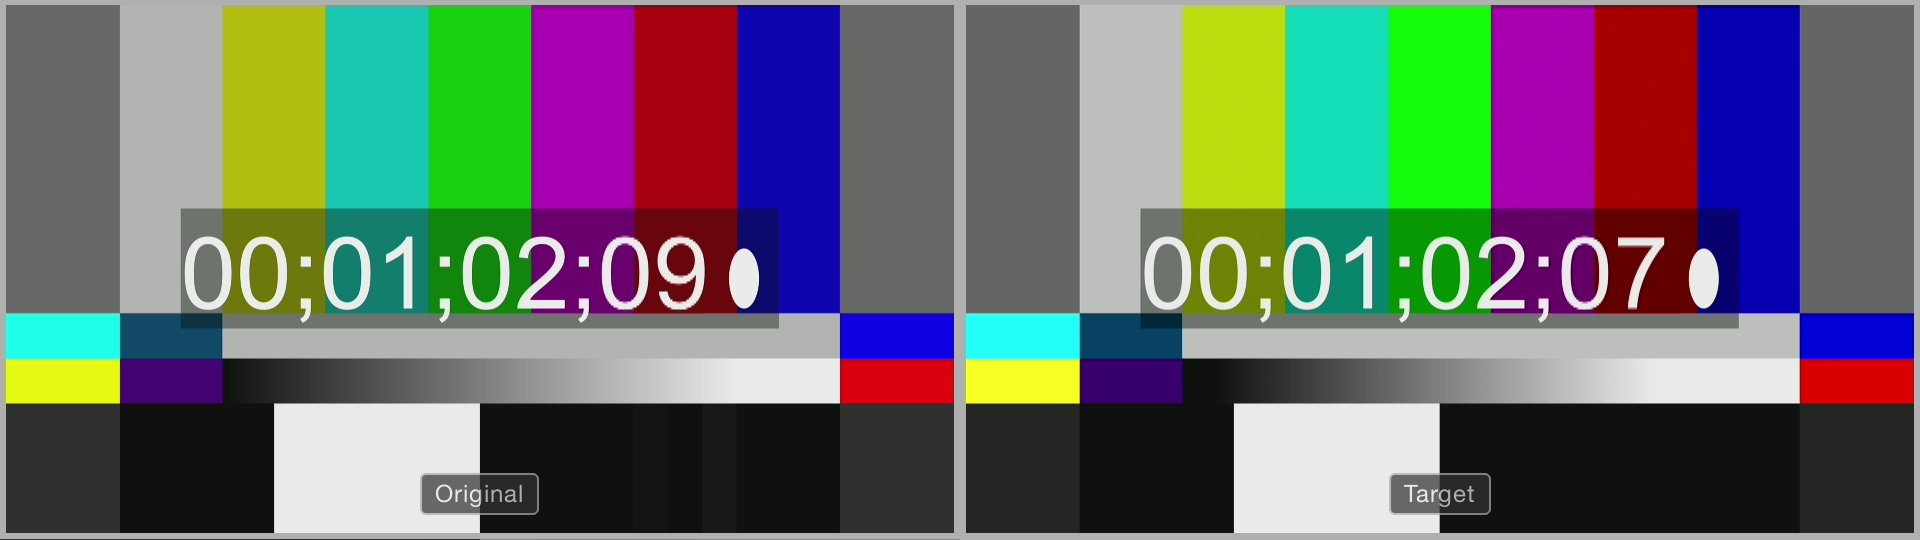
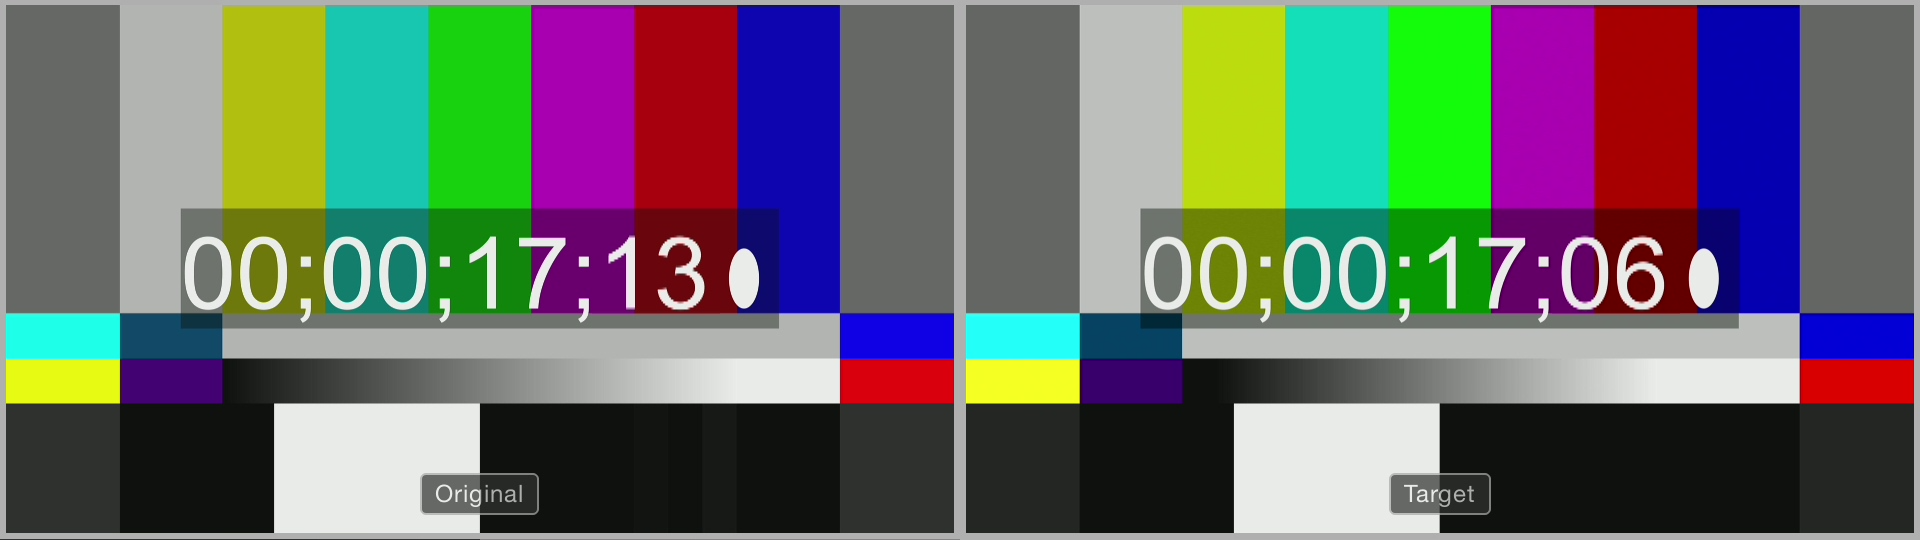
Update some sections

Changed region(s): [[0.1875, 0.4148, 0.375, 0.5926], [0.6875, 0.4148, 0.8125, 0.5926], [0.8438, 0.4148, 0.875, 0.5926]]

diff --git a/section/00_abstract.tex b/section/00_abstract.tex
@@ -11,11 +11,14 @@
 4K映像の帯域は2K映像と比較すると約4倍、現行のハイビジョン放送と比較すると約8倍にもなり、伝送方法とそのコストが課題である。
 そのため、映像業界では、映像機器と比べて比較的安価なネットワークリソースを活用して伝送する、Video over IP化が進んでいる。
 
-本研究では、汎用的なビデオインターフェースであるHDMIから、映像をIPパケット化し、非圧縮の4K映像を伝送するシステムを設計、実装し、ネットワーク活用した映像伝送システムについて、評価?を行う。% また、ネットワークスイッチによるルーティング、ブロードキャストなどについて検証を行う。
+本研究では、実装を行うために必要となる、映像制作現場におけるIP伝送装置の性能要件を調査した。調査では映像の遅延が133.33msまでであれば「遅延を許容できる」と回答した人が9割であった。
+汎用的なビデオインターフェースであるHDMIから、映像をIPパケット化し、非圧縮の4K映像を伝送するシステムを設計、実装する。
 
 本研究では、4K映像キャプチャーボード、10Gbpsネットワークインターフェースカードを備えた汎用的なコンピューターで実装したソフトウェアと、Xilinxの7-Series FPGAボードで実装したハードウェアの両方を実装した。
 
-評価として、4K非圧縮映像の伝送を行う既製品であるPFU QG70、実装したソフトウェア、実装したハードウェアのそれぞれにおいて遅延、重さ、XXXを計測し、XXXという結果となった。
+評価として、実装したソフトウェア、実装したハードウェアのそれぞれにおいてトラフィック、遅延を計測した。
+ソフトウェアではおよそ199.99msの遅延があるが、ハードウェアでは33ms以内の遅延となった。
+これにより、映像制作現場においてFPGAによるハードウェア実装は優位であるが、ソフトウェア実装では活用しにくい事がわかった。
 
 \end{jabstract}
 
@@ -27,8 +30,14 @@ In recent years, the spread of 4K / 8K images is accelerating all over the world
 The bandwidth of 4K video is about 4 times as compared with 2K video, and it is about 8 times as compared with the current high vision broadcasting, and the transmission method and its cost are the issues.
 For this reason, in the video industry, Video over IP is advancing, utilizing relatively inexpensive network resources compared to video equipment, to transmit.
 
-In this research, we evaluate video transmission system using network using HDMI which is a general-purpose video interface, designing and implementing a system for IP packetizing video, transmitting uncompressed 4K video, and implementing it.
+In this research, we investigated the performance requirements of the IP transmission equipment at the video production site, which is necessary for implementation. In the survey, 90% of people responded that "Delay can be tolerated" if the delay of video is up to 133.33 ms.
+We design and implement a system for propagating video packets to IP packets, uncompressed 4K video from HDMI which is a versatile video mixer.
 
-And we implemented both software implemented on a general-purpose computer equipped with 4K video capture board and 10 Gbps network interface card and hardware implemented with Xilinx's 7-Series FPGA board.
+In this research, we implemented both software implemented with a general-purpose computer equipped with 4K video capture board and 10 Gbps network interface card and hardware implemented with Xilinx 7 series FPGA board.
+
+As evaluation, track fix and delay were measured for each of the implemented software and the installed hardware.
+In software it has a delay of 199.99 ms, but with hardware the delay is within 33 ms.
+
+As a result, hardware implementation by FPGA is dominant at video production site, but it turned out that it is easy to utilize by software implementation.
 
 \end{eabstract}

diff --git a/section/06_evaluation.tex b/section/06_evaluation.tex
@@ -144,7 +144,7 @@
 \end{figure}
 
 キャプチャーした瞬間によっては、IP伝送装置のタイミングにより遅延のバラ付きが出る可能性があるため、5回計測を行う。
-テスト信号は4K 29.97Pである。
+テスト信号はYCbCr 4:2:2の4K 30Pである。
 
 \subsection{計測結果}
 
@@ -152,7 +152,7 @@
   \begin{center}
     \includegraphics[bb=0 0 1920 540,width=14cm]{img/evaluate-delay-software-1.png}
   \end{center}
-  \caption[ソフトウェア実装による遅延計測のキャプチャー画像]{ソフトウェア実装による遅延計測のキャプチャー画像 左がオリジナルの信号、右が検査対象の信号}
+  \caption[ソフトウェア実装による1回目の遅延計測のキャプチャー画像]{\shortstack{左がオリジナルの信号、右が検査対象の信号\\ソフトウェア実装による1回目の遅延計測のキャプチャー画像}}
   \label{fig:evaluate-delay-software-1}
 \end{figure}
 
@@ -160,7 +160,7 @@
   \begin{center}
     \includegraphics[bb=0 0 1920 540,width=14cm]{img/evaluate-delay-software-2.png}
   \end{center}
-  \caption[ソフトウェア実装による遅延計測のキャプチャー画像]{ソフトウェア実装による遅延計測のキャプチャー画像 左がオリジナルの信号、右が検査対象の信号}
+  \caption[ソフトウェア実装による4回目の遅延計測のキャプチャー画像]{\shortstack{左がオリジナルの信号、右が検査対象の信号\\ソフトウェア実装による4回目の遅延計測のキャプチャー画像}}
   \label{fig:evaluate-delay-software-2}
 \end{figure}
 
@@ -168,14 +168,15 @@
   \begin{center}
     \includegraphics[bb=0 0 1920 540,width=14cm]{img/evaluate-delay-hardware.png}
   \end{center}
-  \caption[ハードウェア実装による遅延計測のキャプチャー画像]{ハードウェア実装による遅延計測のキャプチャー画像 左がオリジナルの信号、右が検査対象の信号}
+  \caption[ハードウェア実装による遅延計測のキャプチャー画像]{\shortstack{左がオリジナルの信号、右が検査対象の信号\\ハードウェア実装による遅延計測のキャプチャー画像}}
   \label{fig:evaluate-delay-hardware}
 \end{figure}
 
 % \section{YCbCr 4:2:0}
 % あああ
 
-ソフトウェア実装による遅延時間の計測結果を、表~\ref{tb:evaluate-software-delay}に示す。
+ソフトウェア実装による遅延時間の計測の様子を図~\ref{fig:evaluate-delay-software-1}と図~\ref{fig:evaluate-delay-software-2}に示す。
+また、計測結果を表~\ref{tb:evaluate-software-delay}に示す。
 ハードウェアよりも遅延が多く、計測回数によってばらつきがあることが分かる。
 遅延フレームの平均は6フレームとなり、30FPSでは199.99msとなる。
 これは、\ref{chap:network-transmission}章で述べた、性能要件となる133.33msの遅延よりも多く、ソフトウェアによる実装では、映像制作現場に適さないことが分かる。
@@ -196,7 +197,7 @@
   \end{tabular}\end{center}
 \end{table}
 
-ハードウェアでは5回計測を行ったが、すべて0フレームであった。
+ハードウェア実装による遅延時間の計測を5回行ったが、遅延フレームはすべて0フレームであった。
 計測環境の制限から遅延は1フレーム以内であるという結果になった。
 性能要件となる遅延時間よりも短く、ハードウェアによる実装では、映像制作現場におけるIP伝送装置として優位であることが分かる。
 
@@ -205,3 +206,5 @@
 % 付録\ref{chap:orf2015}、付録\ref{chap:orf2016}
 
 \section{考察}
+
+ハードウェアによる実装では、YCbCr 4:2:0方式が使えるに加え、

diff --git a/section/05_implementation.tex b/section/05_implementation.tex
@@ -84,7 +84,6 @@ FPGAの回路全体のブロックダイアグラムを図~\ref{fig:fpga-whole-d
   \label{fig:fpga-independent-clocking-fifo}
 \end{figure}
 
-\newpage
 読み書きで独立したクロックの他に、入出力のデータ幅が異なっており、入力のデータ幅は35bit、出力のデータ幅は倍の70bitとなっている。理由は後述する。
 Video Processing Subsystemは300MHzで35bitのデータを書き込み、10 Gigabit Ethernet Subsystemは156.25MHzのデータを読み込む。
 10 Gigabit Ethernet Subsystemのクロックが早いため、FIFOがフル状態になることはない。

diff --git a/main.tex b/main.tex
@@ -37,7 +37,7 @@
 
 % 日本語情報（必要なら）
 \jclass   {卒業論文}                             % 論文種別
-\jtitle   {映像制作現場における\\高解像度映像IP伝送システムNG-HDMI-TSの実装と評価}    % タイトル。改行する場合は\\を入れる
+\jtitle   {映像制作現場における\\高解像度映像IP伝送装置の実装と評価}    % タイトル。改行する場合は\\を入れる
 \juniv    {慶應義塾大学}                  % 大学名
 \jfaculty {環境情報学部}               % 学部、学科
 \jauthor  {山中 勇成}                       % 著者
